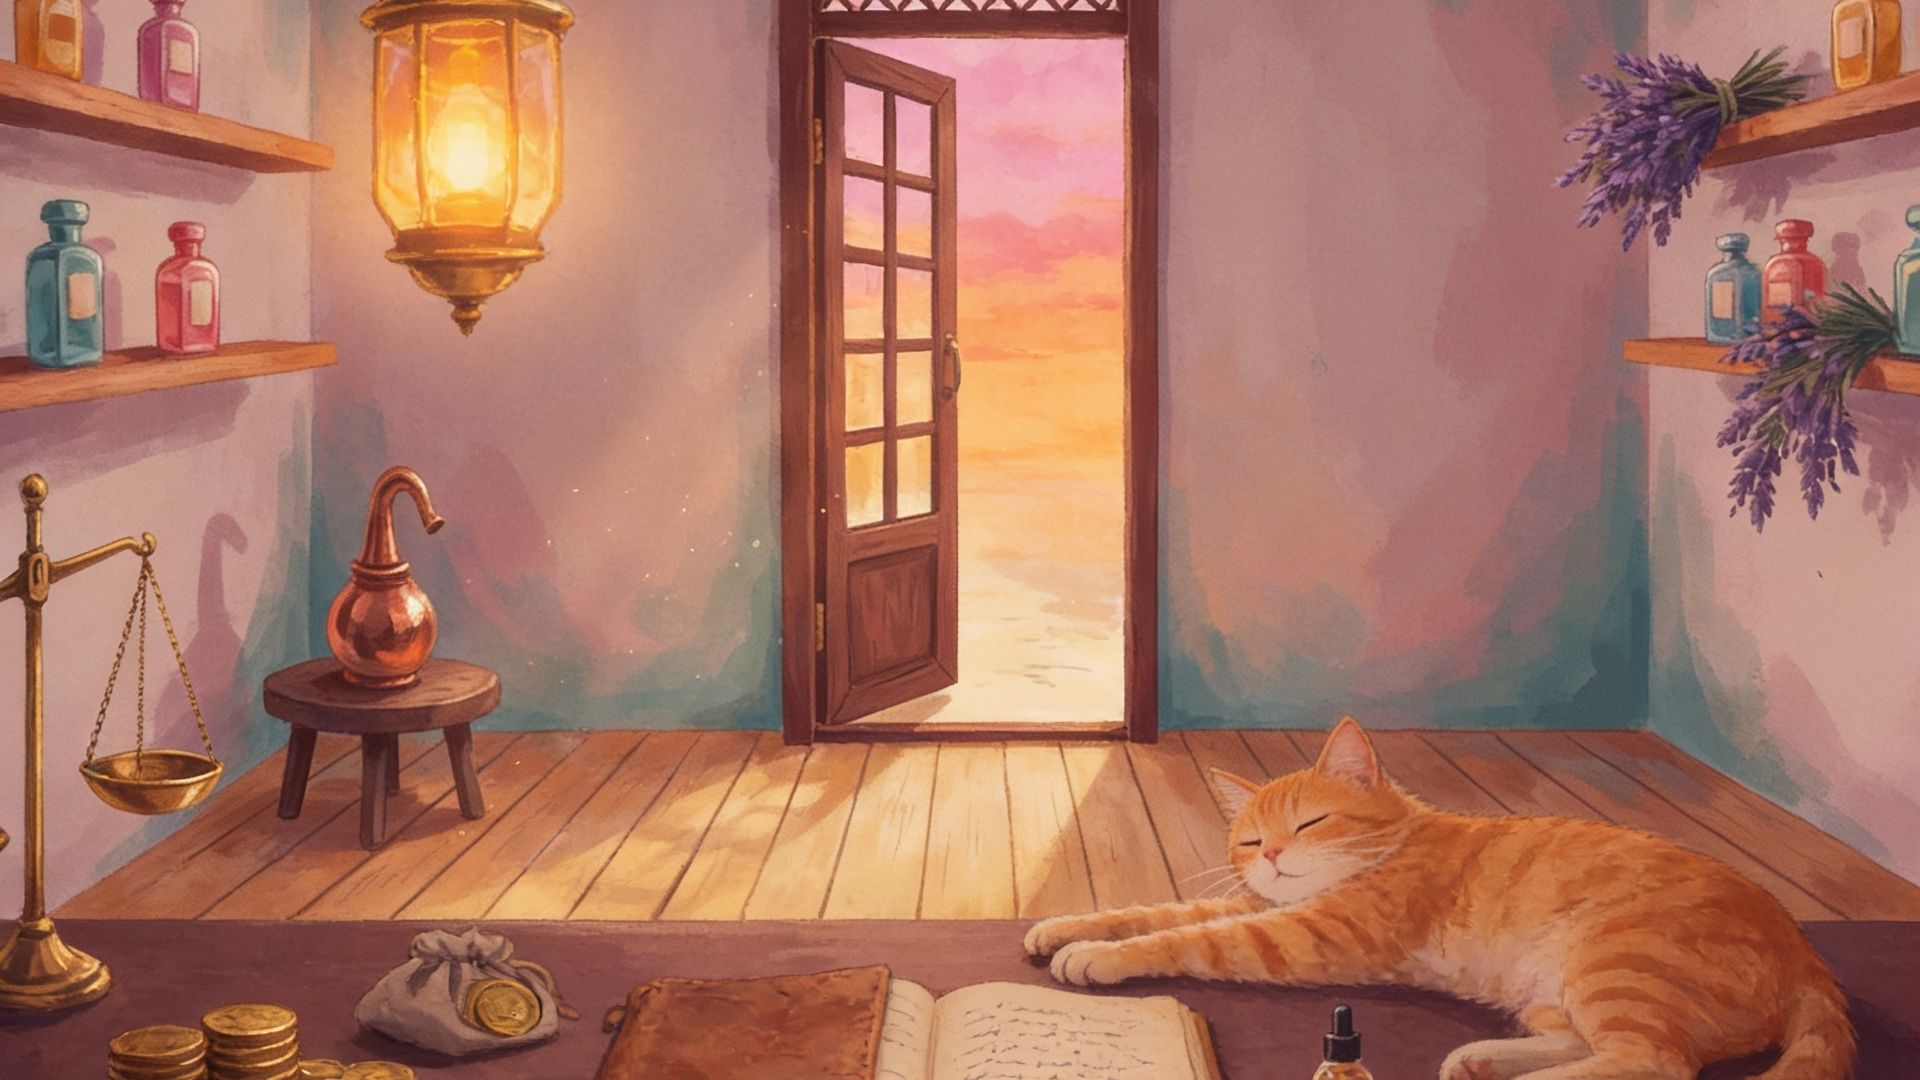
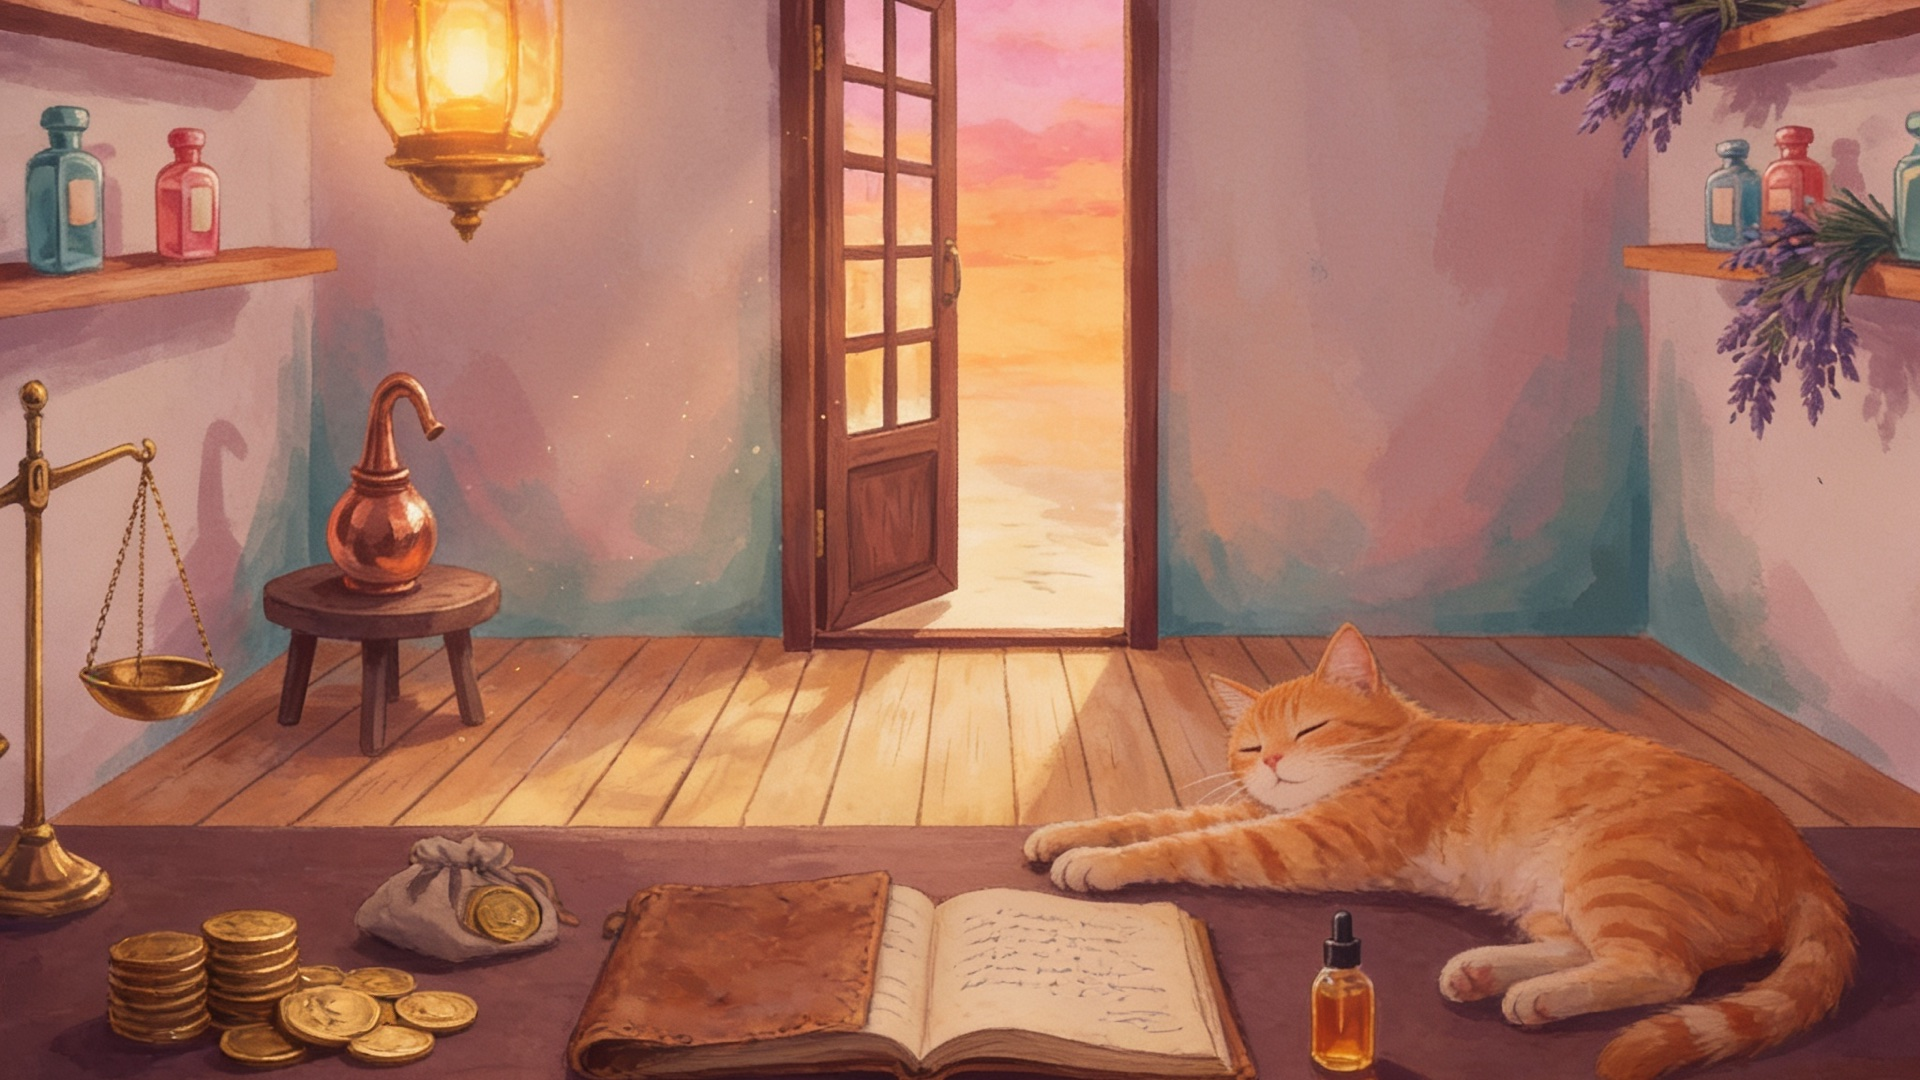
Win ending: re-crop, cat on the counter text, zoom anchor

diff --git a/src/scenes/EndingScene.ts b/src/scenes/EndingScene.ts
@@ -138,8 +138,13 @@ export class EndingScene extends Phaser.Scene {
   // The picture in a container that zooms slowly; on the lose and great win pictures the container also holds the sign text
   private addArt() {
     const { width, height } = this.scale
-    const art = this.add.container(width / 2, height / 2)
-    art.add(this.makePicture(PICTURES[this.ending], this.ending !== 'lose'))
+    // The win picture zooms from its bottom edge, so the coins and the notebook on the counter are not pushed
+    // off-screen; the others zoom from the center
+    const anchorBottom = this.ending === 'win'
+    const art = this.add.container(width / 2, anchorBottom ? height : height / 2)
+    const picture = this.makePicture(PICTURES[this.ending], this.ending !== 'lose')
+    if (anchorBottom) picture.setY(-height / 2) // keeps the picture covering the screen
+    art.add(picture)
     if (this.ending === 'lose') art.add(this.makeSign(LOSE_SIGN))
     if (this.ending === 'great') art.add(this.makeSign(GREAT_SIGN))
     this.tweens.add({ targets: art, scale: KEN_BURNS.to, duration: KEN_BURNS.ms, ease: 'Linear' })

diff --git a/src/game/story.ts b/src/game/story.ts
@@ -13,7 +13,7 @@ export const INTRO_PAGES: string[] = [
 ]
 
 export const WIN_PAGE =
-  "On the fifth evening, you count the coins twice: {earned}. The debt is paid. Misk stretches on the step, as if he knew all along. Tomorrow the door opens again, and this time it's your shop."
+  "On the fifth evening, you count the coins twice: {earned}. The debt is paid. Misk stretches out on the counter, as if he knew all along. Tomorrow the door opens again, and this time it's your shop."
 
 // The great win (the money reaches the difficulty's greatWin amount) is its own single page
 export const GREAT_WIN_PAGE =

diff --git a/ASSET_LOG.md b/ASSET_LOG.md
@@ -29,7 +29,7 @@
 | public/assets/characters/player_sad.png (raw: assets_raw/player_sad_raw.png, cutout: assets_raw/player_sad.png, crop: assets_raw/player_sad_crop.png) | The player, sad. DreamLayer CLI: `dreamlayer edit` from the reference, 3 attempts: the first changed the hair and face, the second came back pixelated and square, the third worked. Then DreamLayer background cutout, crop 1400x1440 at offset 580,0, resized to 640 px high (622x640, transparent). Prompts: not recorded. | not recorded |
 | public/assets/characters/player_neutral.png (cutout: assets_raw/player_neutral.png, crop: assets_raw/player_neutral_crop.png) | The player, neutral: the approved reference itself (player_ref_raw.png), cut out with DreamLayer background cutout, cropped 1400x1440 at offset 580,0 and resized to 640 px high (622x640, transparent). | not recorded |
 | public/assets/story/ending_greatwin.jpg (raw: assets_raw/ending_greatwin_raw.png; earlier tries: ending_greatwin_v2_raw.png, v3, v4; old version: assets_raw/ending_greatwin_v1_backup.jpg) | The great win ending picture, replaced by a new composition. DreamLayer CLI: `dreamlayer generate --aspect 16:9`, from scratch, after two failed `dreamlayer edit` attempts on the old picture that kept the historical costumes. 1920x1080. The blank hanging sign gets "Attar" drawn on it in code (EndingScene.ts, GREAT_SIGN). Prompt: not recorded in this log. | not recorded |
-| public/assets/story/ending_win.jpg (raw: assets_raw/ending_win_v2_raw.png, crop: assets_raw/ending_win_v2_crop.png; old version: assets_raw/ending_win_v1_backup.jpg) | The win ending picture, replaced: our own shop interior in the evening, with gold coins, a pouch, the notebook, an amber bottle and the orange cat on the counter. DreamLayer CLI: `dreamlayer edit` of public/assets/backgrounds/shop_morning.jpg, turned to evening and with the new objects added. The edit came back as a 2048x2048 square, so it was cropped to 2048x1152 at y=600 and resized to 1920x1080. The lantern's shape changed in the edit. Prompt: not recorded in this log. | not recorded |
+| public/assets/story/ending_win.jpg (raw: assets_raw/ending_win_v2_raw.png, crop: assets_raw/ending_win_v2_crop.png; old version: assets_raw/ending_win_v1_backup.jpg) | The win ending picture, replaced: our own shop interior in the evening, with gold coins, a pouch, the notebook, an amber bottle and the orange cat on the counter. DreamLayer CLI: `dreamlayer edit` of public/assets/backgrounds/shop_morning.jpg, turned to evening and with the new objects added. The edit came back as a 2048x2048 square, so it was cropped to 2048x1152 at y=700 and resized to 1920x1080. The lantern's shape changed in the edit. Prompt: not recorded in this log. | not recorded |
 | public/assets/props/gift_bottle.png (raw: assets_raw/gift_bottle_raw.png, cutout: assets_raw/gift_bottle.png, crop: assets_raw/gift_bottle_crop.png) | The gift bottle of the delivery animation (165x220, transparent, round glass body, gold collar, cork in the neck). DreamLayer CLI: `dreamlayer generate --aspect 16:9`, then background cutout, then `sips` crop and resize. Prompt and command: not recorded in this log. | not recorded |
 | public/assets/props/cashbox.png and public/assets/props/coin.png (sheet: assets_raw/sheet_delivery_raw.png, cutout: assets_raw/sheet_delivery.png, crops: assets_raw/cashbox_crop.png, assets_raw/coin_crop.png) | The open wooden cash box (240x223) and a gold coin (64x44), both transparent, made on one sheet. DreamLayer CLI: `dreamlayer generate --aspect 16:9`, then background cutout, then `sips` crop and resize. Prompt and command: not recorded in this log. | not recorded |
 
